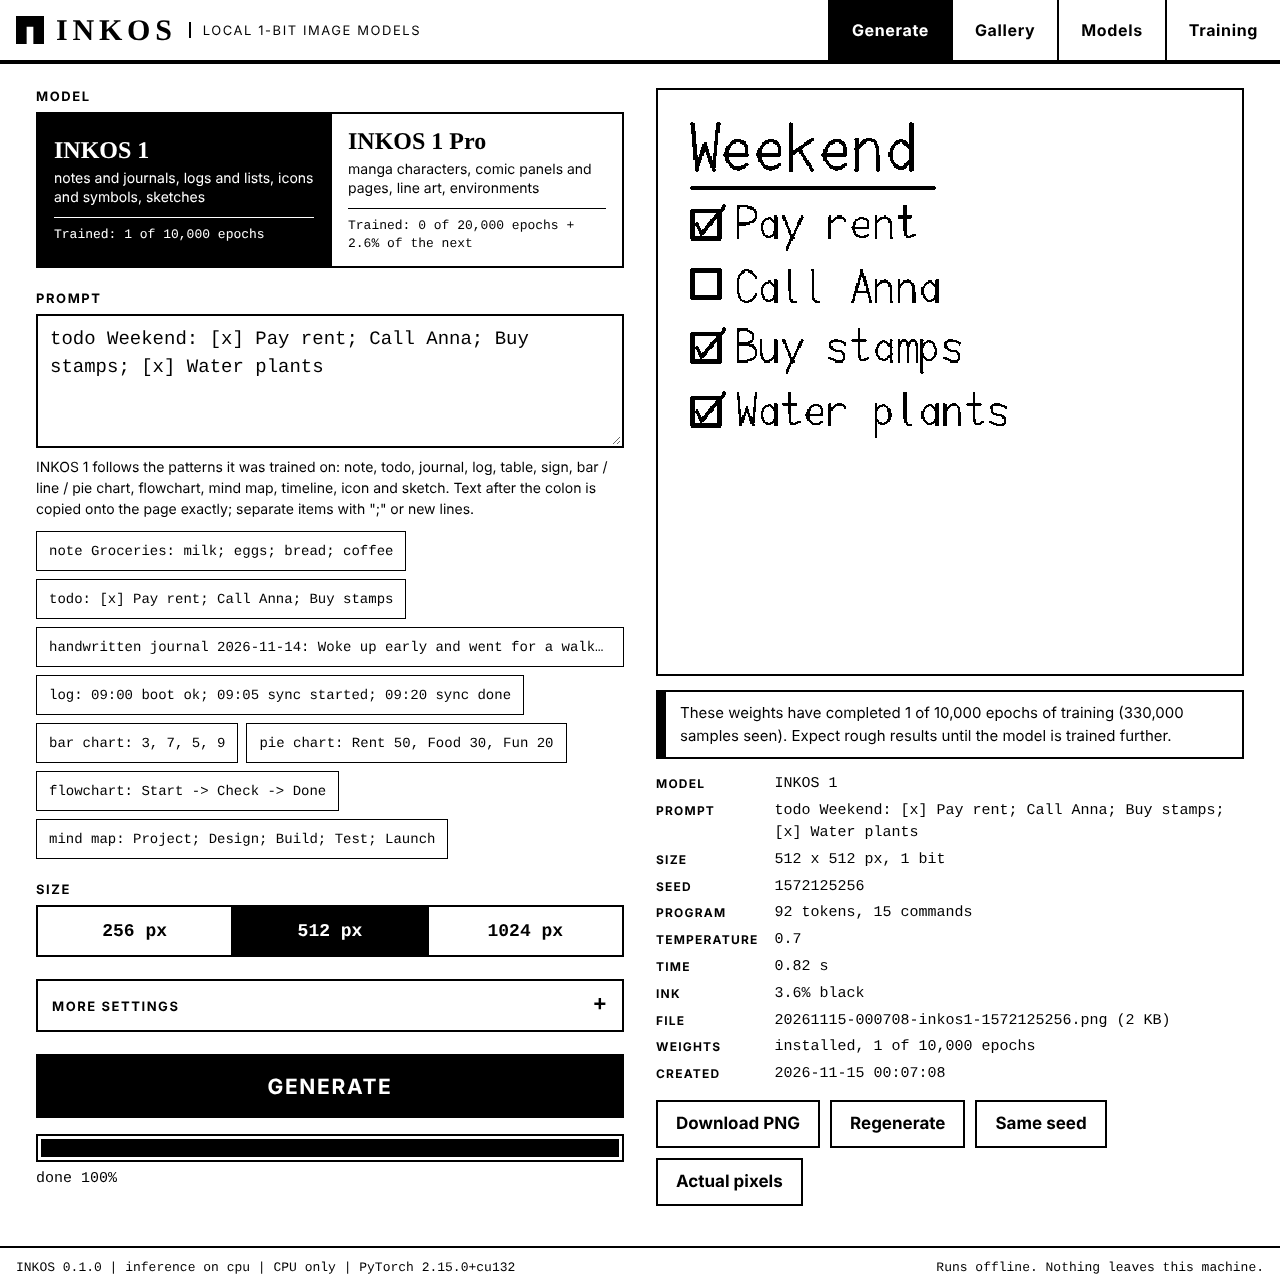
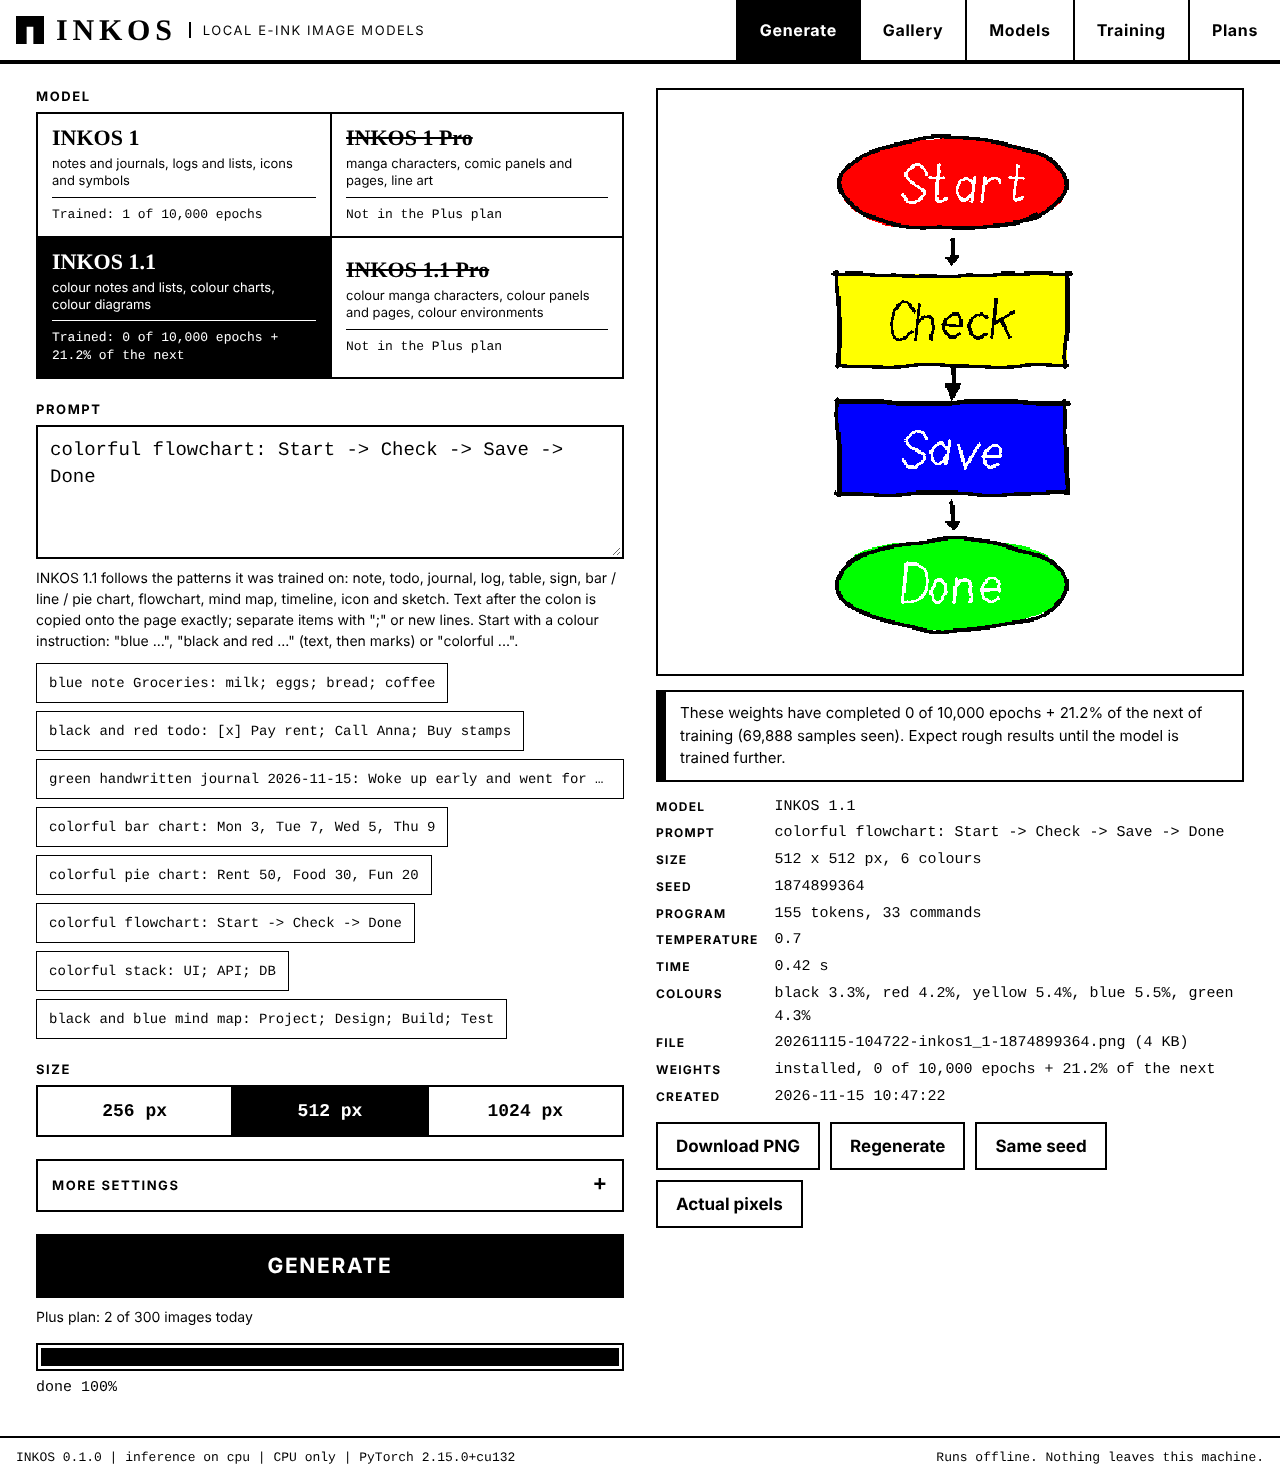
Evaluate and benchmark the colour models; record the results
README now reports the measured state of all four models, the per-model
benchmark, and screenshots of the colour output and the Plans tab. The
benchmark runs each model in its own process so its peak memory is its own.

Claude-Session: https://claude.ai/code/session_01AgJG2z4ZGSesMoW2ewS3UU

diff --git a/inkos/hardware.py b/inkos/hardware.py
@@ -159,6 +159,19 @@ def benchmark(model_id: str, device: torch.device, steps: int = 3) -> dict:
     return res
 
 
+def _bench_job(model_id: str, device: str) -> dict:
+    return benchmark(model_id, torch.device(device))
+
+
+def benchmark_isolated(model_id: str, device: torch.device) -> dict:
+    """Run one benchmark in a fresh process, so the reported peak memory is
+    that model's alone and not left over from an earlier benchmark."""
+    import multiprocessing as mp
+    from concurrent.futures import ProcessPoolExecutor
+    with ProcessPoolExecutor(max_workers=1, mp_context=mp.get_context("spawn")) as ex:
+        return ex.submit(_bench_job, model_id, str(device)).result()
+
+
 def _dur(sec: float) -> str:
     for unit, n in (("years", 365 * 86400), ("days", 86400), ("hours", 3600), ("minutes", 60)):
         if sec >= n:
@@ -181,13 +194,14 @@ def report(bench: bool = False) -> dict:
             print(f"  [{c['level']:>4}] {c['text']}")
         if bench:
             print("  benchmarking ...", flush=True)
-            results[mid] = benchmark(mid, pick_device(None))
+            results[mid] = benchmark_isolated(mid, pick_device(None))
         b = results.get(mid)
         if b:
             print(f"  measured on {b['device']}: training {b['train_samples_per_sec']} samples/s at batch {b['batch_size']}; "
                   f"one epoch of {b['dataset_size_assumed']:,} samples = {_dur(b['seconds_per_epoch'])}; "
                   f"{b['target_epochs']:,} epochs = {_dur(b['seconds_to_target'])}")
-            print(f"  generation: {b['generation_seconds']} s ({b['generation_note']}); peak process memory {b['peak_rss_mb']} MB")
+            print(f"  generation: {b['generation_seconds']} s ({b['generation_note']}); "
+                  f"peak memory of the benchmark process {b['peak_rss_mb']} MB")
     if bench:
         paths.RUNS.mkdir(parents=True, exist_ok=True)
         (paths.RUNS / "hardware.json").write_text(json.dumps(results, indent=2))

diff --git a/README.md b/README.md
@@ -33,10 +33,10 @@ trainer's status files:
 | --- | --- | --- | --- |
 | INKOS 1 | 10,000 epochs | **1 complete epoch** (330,000 samples, 10,313 steps, 2.5 hours of training) | installed in `models/inkos1/` |
 | INKOS 1 Pro | 20,000 epochs | **0 complete epochs plus 6% of the next** (3,760 samples, 235 steps, 19.6 minutes of training) | not included |
+| INKOS 1.1 | 10,000 epochs | **0 complete epochs plus 21% of the next** (69,888 samples, 2,184 steps, 41.5 minutes of training) | installed in `models/inkos1_1/` |
+| INKOS 1.1 Pro | 20,000 epochs | **0 complete epochs plus 49% of the next** (2,912 samples, 182 steps, 14.4 minutes of training) | not included |
 
 **INKOS 1** has seen each of its 330,000 training drawings exactly once. Measured on held-out prompts (`python -m inkos eval --model inkos1`): validation loss 1.50, 59% next-token accuracy, 97% pointer accuracy; 89% of freely sampled programs are valid even without the grammar mask; 90% of the requested text strings land on the page exactly.
-
-What that means in practice:
 
 * **Works:** notes, to-do lists, journals, logs, schedules, tables, flowcharts, mind maps and timelines come out right most of the time, with occasional slips such as a wrong checkbox or a label running off the edge (validation loss 0.05 to 0.15 on these families).
 * **Approximate:** charts have the right structure and labels, but bar heights and pie shares do not follow the numbers yet (mean bar-height error 32 of 128 grid units in the evaluation sample).
@@ -46,7 +46,21 @@ What that means in practice:
 
 *Sixteen prompts (listed in `docs/samples/inkos1.json`) drawn with the installed one-epoch weights at 512 px. The last row shows the icon and sketch failures.*
 
-**INKOS 1 Pro** was only run long enough to prove the pipeline end to end: 235 steps, 3,760 of its 60,000 training images seen once (6% of one epoch). Its validation loss fell from 1.04 to 0.36, which at this stage only means it has learned how much of a page is ink: its samples are abstract black-and-white blobs, not drawings (edge density 0.031 against 0.110 for real training images). No Pro weights are included. It needs a GPU and a long run before it draws anything recognisable, and it needs real, licensed artwork before it can approach professional manga (see [DATA_LICENSES.md](DATA_LICENSES.md)).
+**INKOS 1.1** started from INKOS 1's weights (1 epoch) and was then trained on its own colour data for 2,184 steps: 69,888 of 330,000 drawings, 21% of one epoch, so its own count is still 0 complete epochs. Measured the same way on its own colour validation set: loss 1.08 (not directly comparable with INKOS 1's figure: the colour set has fewer sketches, the hardest family), 70% next-token accuracy, 98% pointer accuracy, 92% of text strings exact. On colour: 98% of generated drawings use exactly the colours of their reference, and 46% of the pixels inked in either drawing carry the same colour in both (a strict measure that also drops wherever the shapes differ, not only where a colour is wrong).
+
+* **Works:** the three colour forms on written pages and diagrams: one colour (`blue note ...`), two colours (`black and red todo ...` puts text in black and boxes and rules in red) and `colorful` flowcharts, stacks, trees and tables, with white lettering on dark fills.
+* **Approximate:** bar heights still do not follow the numbers. A `colorful` pie is filled in a single colour, because the colour scheme it was trained on treats the pie's circle as one shape.
+* **Not learned yet:** symbols, icons and sketches, as in INKOS 1. A `red heart` comes out right, but `colorful three stars` drew faces, and `yellow sun` and the tree sketch are not recognisable.
+
+![Sixteen prompts drawn by INKOS 1.1](docs/samples/inkos1_1.png)
+
+*Sixteen prompts (listed in `docs/samples/inkos1_1.json`) drawn with the installed INKOS 1.1 weights at 512 px.*
+
+**INKOS 1 Pro** was only run long enough to prove the pipeline end to end: 235 steps, 3,760 of its 60,000 training images seen once (6% of one epoch). Its validation loss fell from 1.04 to 0.36, which at this stage only means it has learned how much of a page is ink: its samples are abstract black-and-white blobs, not drawings (edge density 0.031 against 0.110 for real training images).
+
+**INKOS 1.1 Pro** was run the same way: 182 steps, 2,912 images (a 6,000-image colour set was prepared here instead of the full 60,000, so the epoch fraction shown above is of that smaller set). Its validation loss fell from 1.47 at step 70 to 0.77 at step 140, and at fixed noise it gives 86% of pixels the right colour, but like INKOS 1 Pro its samples are flat patches of colour, not drawings. Their colour mix is also off: no green at all and 20% yellow, against 8% green and 6% yellow in real training images.
+
+No Pro weights are included. Both Pro models need a GPU and a long run before they draw anything recognisable, and they need real, licensed artwork before they can approach professional manga (see [DATA_LICENSES.md](DATA_LICENSES.md)).
 <!-- STATE:END -->
 
 The epoch counts above are **targets**. The trainer records what was really
@@ -105,6 +119,8 @@ Each plan has an optional `price` label in the config, empty by default,
 which is only displayed. The local server and `python -m inkos generate`
 both enforce the active plan. Training, evaluation and export are never
 limited.
+
+![The Plans tab](docs/interface-plans.png)
 
 ## Training
 
@@ -208,8 +224,10 @@ on the 4-core CPU this project was built on:
 <!-- BENCH:BEGIN -->
 | Model | Measured training speed | One epoch | Full target |
 | --- | --- | --- | --- |
-| INKOS 1 | 50.57 samples/s (batch 32) | 1.8 hours for 330,000 samples | 10,000 epochs: 2.1 years |
-| INKOS 1 Pro | 4.25 samples/s (batch 16) | 3.9 hours for 60,000 samples | 20,000 epochs: 9.0 years |
+| INKOS 1 | 45.83 samples/s (batch 32) | 2.0 hours for 330,000 samples | 10,000 epochs: 2.3 years |
+| INKOS 1 Pro | 3.77 samples/s (batch 16) | 4.4 hours for 60,000 samples | 20,000 epochs: 10.1 years |
+| INKOS 1.1 | 49.11 samples/s (batch 32) | 1.9 hours for 330,000 samples | 10,000 epochs: 2.1 years |
+| INKOS 1.1 Pro | 3.34 samples/s (batch 16) | 5.0 hours for 60,000 samples | 20,000 epochs: 11.4 years |
 <!-- BENCH:END -->
 
 The targets are large: 10,000 epochs of INKOS 1 or INKOS 1.1 are 3.3 billion
@@ -253,7 +271,7 @@ refiner's pixel accuracy and the colour mix of generated against real images.
 `python -m inkos serve` starts a local server (standard library only) and the
 HTML interface in `web/`:
 
-![The Generate tab with a to-do list drawn by INKOS 1](docs/interface-generate.png)
+![The Generate tab with a colourful flowchart drawn by INKOS 1.1](docs/interface-generate.png)
 
 * **Generate**: model selector with each model's real training state, prompt
   box with example prompts, size selector, optional seed and sampling
